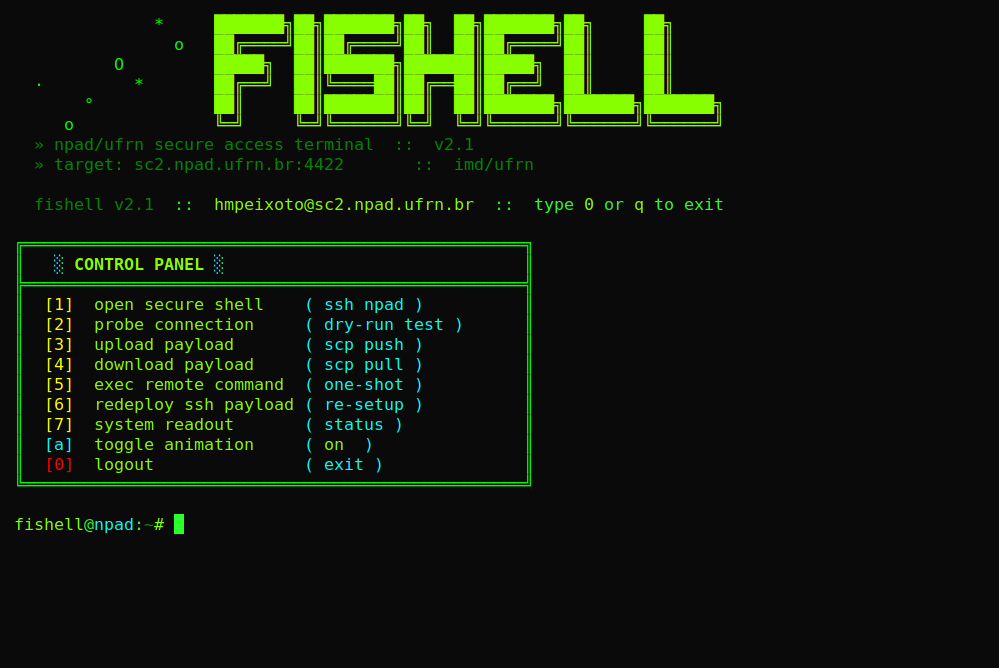
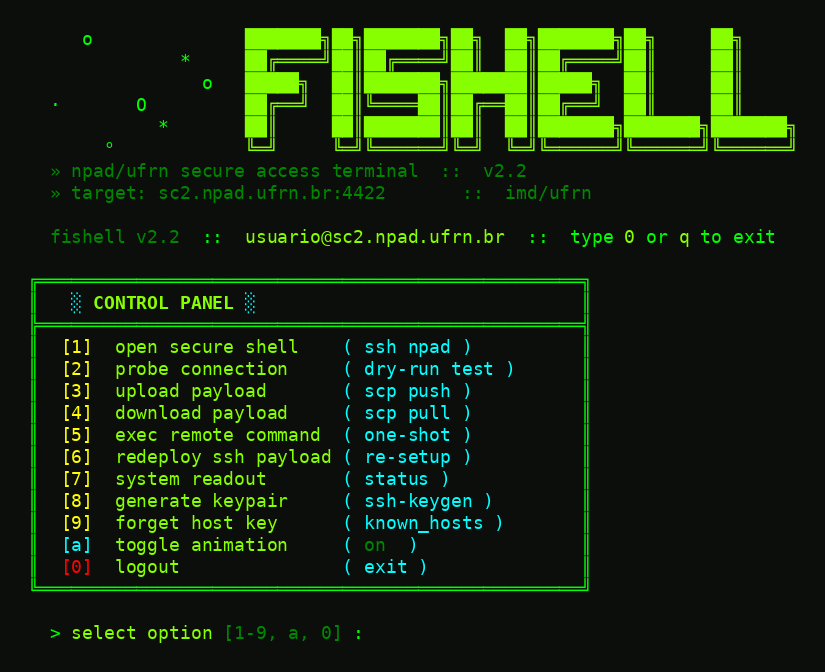
docs: README documenta o menu e o bloco do ssh/config + screenshot reproduzivel
O README nunca tinha documentado o painel interativo — a opcao [5] (exec
remoto) e o toggle [a] nao apareciam em lugar nenhum, ja que o `help` so
cobre a CLI.

Novo tambem:
- o bloco delimitado por "# -- fishell: begin/end --" que o setup escreve no
  ~/.ssh/config, e o fato de que rodar setup de novo reescreve em vez de
  duplicar.
- o caso em que ja existe um `Host npad` que nao foi criado pelo fishell: o
  script avisa e nao mexe, o que sem explicacao parece falha.
- secao de desenvolvimento com os checks locais e o que o CI roda.
- troubleshooting cobrindo `forget` e `keygen`.

tools/make-screenshot.py torna o print do README reproduzivel a partir da UI
real: roda o fishell numa copia temporaria do repo com NPAD_USER neutro,
captura o ANSI por um pty e desenha com Pillow. O usuario NPAD real nao pode
ir para um screenshot commitado em repo publico, e a altura de linha e' presa
a caixa do bloco cheio para as bordas do painel nao sairem com falhas.

diff --git a/tools/make-screenshot.py b/tools/make-screenshot.py
@@ -1,0 +1,132 @@
+#!/usr/bin/env python3
+"""Regenera o screenshot.png do README a partir da UI real do fishell.
+
+Roda o fishell.sh numa cópia temporária do repo (com um NPAD_USER neutro, pra
+não publicar o usuário real), captura a saída ANSI através de um pty e desenha
+o frame do painel com Pillow.
+
+    python3 tools/make-screenshot.py [-o screenshot.png]
+
+Requer: Pillow e DejaVu Sans Mono (fonts-dejavu-core).
+"""
+import argparse
+import os
+import re
+import shutil
+import subprocess
+import sys
+import tempfile
+
+from PIL import Image, ImageDraw, ImageFont
+
+REPO = os.path.dirname(os.path.dirname(os.path.abspath(__file__)))
+FONT_DIR = "/usr/share/fonts/truetype/dejavu"
+FONT_REG = f"{FONT_DIR}/DejaVuSansMono.ttf"
+FONT_BLD = f"{FONT_DIR}/DejaVuSansMono-Bold.ttf"
+
+SIZE, PAD = 18, 28
+FG, BG = (0, 255, 0), (11, 14, 11)
+CUBE = [0, 95, 135, 175, 215, 255]
+
+
+def xterm(n):
+    """RGB de uma cor xterm-256."""
+    if n < 16:
+        return (0, 0, 0)
+    if n < 232:
+        n -= 16
+        return (CUBE[n // 36], CUBE[(n % 36) // 6], CUBE[n % 6])
+    return (8 + (n - 232) * 10,) * 3
+
+
+def capture():
+    """Roda o fishell numa cópia descartável e devolve a saída ANSI crua."""
+    with tempfile.TemporaryDirectory() as tmp:
+        work = os.path.join(tmp, "fishell")
+        shutil.copytree(REPO, work, ignore=shutil.ignore_patterns(".git", ".ssh"))
+        cfg = os.path.join(work, "config.sh")
+        with open(os.path.join(work, "config.sh.example"), encoding="utf-8") as f:
+            conf = f.read().replace('NPAD_USER="seu_usuario_aqui"', 'NPAD_USER="usuario"')
+        with open(cfg, "w", encoding="utf-8") as f:
+            f.write(conf)
+        # script(1) dá um pty ao filho — sem isso o fishell desliga as cores.
+        # FISHELL_NOANIM=1 é obrigatório: com animação o menu nunca vê o EOF.
+        out = subprocess.run(
+            ["script", "-qec", "FISHELL_NOANIM=1 ./fishell.sh", "/dev/null"],
+            cwd=work, stdin=subprocess.DEVNULL, stdout=subprocess.PIPE,
+            stderr=subprocess.STDOUT, timeout=60,
+        ).stdout.decode("utf-8", "replace")
+    # O painel ainda mostra "off" porque a captura desligou a animação; o que o
+    # usuário vê num run normal é "on".
+    return out.replace("off\x1b[0m", "on \x1b[0m")
+
+
+def parse(raw):
+    """Extrai o frame do menu e devolve linhas de runs (cor, negrito, texto)."""
+    frames = re.split(r"\x1b\[H\x1b\[2J\x1b\[3J", raw)
+    # 'CONTROL PANEL' só existe no frame do menu ('╔' também está na arte do logo).
+    frame = next((f for f in reversed(frames) if "CONTROL PANEL" in f), None)
+    if frame is None:
+        sys.exit("painel não encontrado na captura — o fishell chegou a rodar?")
+
+    tok = re.compile(r"\x1b\[([0-9;]*)m")
+    lines, color, bold = [], FG, False
+    for raw_line in frame.replace("\r", "").split("\n"):
+        pos, cur = 0, []
+        for m in tok.finditer(raw_line):
+            if m.start() > pos:
+                cur.append((color, bold, raw_line[pos:m.start()]))
+            codes = [c for c in (m.group(1) or "0").split(";") if c]
+            i = 0
+            while i < len(codes):
+                c = int(codes[i])
+                if c == 0:
+                    color, bold = FG, False
+                elif c == 1:
+                    bold = True
+                elif c == 38 and codes[i + 1:i + 2] == ["5"]:
+                    color = xterm(int(codes[i + 2]))
+                    i += 2
+                i += 1
+            pos = m.end()
+        if pos < len(raw_line):
+            cur.append((color, bold, raw_line[pos:]))
+        lines.append(cur)
+
+    text = lambda ln: "".join(t for _, _, t in ln)
+    while lines and not text(lines[0]).strip():
+        lines.pop(0)
+    while lines and not text(lines[-1]).strip():
+        lines.pop()
+    return lines
+
+
+def render(lines, out):
+    for path in (FONT_REG, FONT_BLD):
+        if not os.path.exists(path):
+            sys.exit(f"fonte ausente: {path} (apt install fonts-dejavu-core)")
+    reg = ImageFont.truetype(FONT_REG, SIZE)
+    bld = ImageFont.truetype(FONT_BLD, SIZE)
+    # A altura da linha tem que ser exatamente a caixa do bloco cheio, senão as
+    # bordas ║ do painel saem com falhas entre uma linha e outra.
+    top, bottom = reg.getbbox("█")[1], reg.getbbox("█")[3]
+    cw, lh = reg.getlength("M"), bottom - top
+
+    cols = max(len("".join(t for _, _, t in ln)) for ln in lines)
+    img = Image.new("RGB", (int(PAD * 2 + cols * cw), int(PAD * 2 + len(lines) * lh)), BG)
+    draw = ImageDraw.Draw(img)
+    for row, ln in enumerate(lines):
+        x, y = PAD, PAD + row * lh - top
+        for color, is_bold, text in ln:
+            draw.text((x, y), text, font=(bld if is_bold else reg), fill=color)
+            x += len(text) * cw
+    img.save(out)
+    print(f"{out}: {img.width}x{img.height} px, {len(lines)} linhas, {cols} colunas")
+
+
+if __name__ == "__main__":
+    ap = argparse.ArgumentParser(description=__doc__,
+                                 formatter_class=argparse.RawDescriptionHelpFormatter)
+    ap.add_argument("-o", "--out", default=os.path.join(REPO, "screenshot.png"))
+    args = ap.parse_args()
+    render(parse(capture()), args.out)

diff --git a/README.md b/README.md
@@ -1,7 +1,9 @@
 # fishell
 
 Terminal SSH para acesso rápido ao **NPAD/UFRN** (supercomputador do IMD).
-Configura chaves, registra alias `npad` e abre um painel interativo.
+Copia as chaves, registra o alias `npad` e abre um painel interativo.
+
+[![ci](https://github.com/heltonmaia/fishell/actions/workflows/ci.yml/badge.svg)](https://github.com/heltonmaia/fishell/actions/workflows/ci.yml)
 
 - **Linux / macOS / WSL / Google Colab** → `fishell.sh` (Bash)
 - **Windows (PowerShell / cmd)** → `fishell.ps1` + `fishell.cmd` (launcher)
@@ -19,6 +21,7 @@ cd fishell
 # 1. Chaves SSH do NPAD vão em ./.ssh/
 mkdir -p .ssh
 cp ~/.ssh/id_rsa ~/.ssh/id_rsa.pub .ssh/
+#    (sem chave ainda? ./fishell.sh keygen gera o par pra você)
 
 # 2. Configure seu usuário NPAD
 cp config.sh.example config.sh
@@ -28,16 +31,16 @@ sed -i 's/seu_usuario_aqui/SEU_USER_NPAD/' config.sh
 ./fishell.sh
 ```
 
-Na primeira execução, o script detecta que o SSH não está configurado,
-faz o *setup* automaticamente e abre o painel.
+Na primeira execução, o script detecta que o SSH não está configurado, faz o
+*setup* automaticamente e abre o painel.
 
 ---
 
 ## Instalação (Windows)
 
-Requisitos: Windows 10+ com **OpenSSH Client** ativo (já vem por padrão;
-se não: `Settings → Apps → Optional features → OpenSSH Client`) e
-**Windows Terminal** recomendado para cores/animação.
+Requisitos: Windows 10+ com **OpenSSH Client** ativo (já vem por padrão; se
+não: `Settings → Apps → Optional features → OpenSSH Client`) e **Windows
+Terminal** recomendado para cores/animação.
 
 ```powershell
 git clone https://github.com/heltonmaia/fishell.git
@@ -56,26 +59,50 @@ notepad config.ps1   # edite $NPAD_USER
 .\fishell.cmd
 ```
 
-Pode também chamar com subcomando: `fishell.cmd setup | login | test |
-upload | download | status | help`.
+Também aceita subcomando: `fishell.cmd setup | login | test | upload |
+download | run | keygen | forget | status | help`.
+
+---
+
+## Painel interativo
+
+Rodar sem argumento abre o painel. Cada tecla é uma ação (não precisa dar
+ENTER):
+
+| tecla | ação |
+| ----- | ---------------------------------------------------------- |
+| `1`   | abre o shell no NPAD (equivale a `ssh npad`)                |
+| `2`   | testa a conexão — handshake de 10 s, sem abrir shell        |
+| `3`   | upload via `scp` (pergunta caminho local e remoto)          |
+| `4`   | download via `scp`                                          |
+| `5`   | executa **um comando** no NPAD e mostra a saída             |
+| `6`   | refaz o setup do SSH (recopia chaves, reescreve o alias)    |
+| `7`   | mostra a configuração atual (usuário, host, porta, chaves)  |
+| `8`   | gera um par de chaves novo no diretório de chaves           |
+| `9`   | esquece a host key do NPAD (`ssh-keygen -R`)                |
+| `a`   | liga/desliga a animação do banner                           |
+| `0` ou `q` | sai                                                    |
 
 ---
 
 ## Comandos
 
 ```bash
-./fishell.sh              # painel interativo
-./fishell.sh setup        # (re)configura o SSH
-./fishell.sh login        # conecta (= ssh npad)
-./fishell.sh test         # testa conexão
-./fishell.sh upload       # scp push (interativo)
-./fishell.sh download     # scp pull (interativo)
-./fishell.sh status       # mostra configuração
-./fishell.sh help         # ajuda
+./fishell.sh                    # painel interativo
+./fishell.sh setup              # (re)configura o SSH
+./fishell.sh login              # conecta (= ssh npad)
+./fishell.sh test               # testa conexão
+./fishell.sh upload             # scp push (interativo)
+./fishell.sh download           # scp pull (interativo)
+./fishell.sh run "nvidia-smi"   # roda um comando no NPAD e imprime a saída
+./fishell.sh keygen             # gera um par de chaves novo
+./fishell.sh forget             # remove a host key do NPAD do known_hosts
+./fishell.sh status             # mostra configuração
+./fishell.sh help               # ajuda (funciona sem config.sh)
 ```
 
-Depois do `setup`, o alias fica em `~/.ssh/config` e você pode usar SSH
-direto de qualquer shell:
+Depois do `setup`, o alias fica no `~/.ssh/config` e você pode usar SSH direto
+de qualquer shell:
 
 ```bash
 ssh npad
@@ -89,6 +116,35 @@ Variáveis de ambiente:
 | ------------------ | ---------------------------------------- |
 | `FISHELL_NOANIM=1` | desativa typewriter/boot animation       |
 | `NO_COLOR=1`       | desativa cores ANSI                      |
+
+---
+
+## O que o `setup` faz no seu `~/.ssh`
+
+1. Copia `id_rsa` (e `id_rsa.pub` / `known_hosts`, se existirem) do diretório
+   de chaves para `~/.ssh/`, com permissão `600`.
+2. Acrescenta ao `~/.ssh/config` um bloco delimitado por sentinelas:
+
+```
+# ── fishell: begin ──
+Host npad
+    HostName sc2.npad.ufrn.br
+    Port 4422
+    User SEU_USER
+    IdentityFile ~/.ssh/id_rsa
+    ServerAliveInterval 60
+    ServerAliveCountMax 3
+# ── fishell: end ──
+```
+
+Rodar `setup` de novo **reescreve** esse bloco em vez de duplicá-lo — então
+mudar `NPAD_USER` ou `NPAD_PORT` no config e rodar `./fishell.sh setup` já
+basta.
+
+Se você **já tinha** um `Host npad` no `~/.ssh/config` que não foi criado pelo
+fishell, o script **não mexe nele** e avisa (`alias 'npad' exists ... kept as
+is`). Nesse caso, ou remova/renomeie o seu bloco à mão, ou escolha outro
+`SSH_ALIAS` no `config.sh`.
 
 ---
 
@@ -119,16 +175,22 @@ drive.mount('/content/drive')
 ```
 
 O script detecta `/content/drive/MyDrive/visaocomputacional/.ssh`
-automaticamente. Rode `bash fishell.sh setup` sempre que a VM do Colab
-reiniciar.
+automaticamente quando `SSH_KEYS_DIR` está vazio. Rode `bash fishell.sh setup`
+sempre que a VM do Colab reiniciar.
+
+Para rodar algo no NPAD direto de uma célula, sem painel:
+
+```python
+!bash fishell.sh run "sinfo -s"
+```
 
 ---
 
 ## Migrando para outra máquina (Linux / macOS / WSL)
 
-Após `git clone`, copie os arquivos locais (bloqueados pelo `.gitignore`)
-da máquina de origem: `config.sh` e a pasta `.ssh/` inteira
-(`id_rsa`, `id_rsa.pub`, `known_hosts`).
+Após `git clone`, copie os arquivos locais (bloqueados pelo `.gitignore`) da
+máquina de origem: `config.sh` e a pasta `.ssh/` inteira (`id_rsa`,
+`id_rsa.pub`, `known_hosts`).
 
 Exemplo com `scp`:
 
@@ -137,8 +199,8 @@ scp config.sh  usuario@nova-maquina:~/fishell/
 scp -r .ssh    usuario@nova-maquina:~/fishell/
 ```
 
-Na máquina nova, ajuste as permissões — o SSH recusa a chave se `.ssh/`
-ou `id_rsa` estiverem com permissão frouxa:
+Na máquina nova, ajuste as permissões — o SSH recusa a chave se `.ssh/` ou
+`id_rsa` estiverem com permissão frouxa:
 
 ```bash
 cd ~/fishell
@@ -153,20 +215,55 @@ chmod +x fishell.sh
 
 ## Troubleshooting
 
-| Problema                          | Solução                                                            |
-| --------------------------------- | ------------------------------------------------------------------ |
-| `Permission denied (publickey)`   | Confirme `NPAD_USER` no `config.sh` e se a pub foi enviada ao NPAD |
-| `chave privada não encontrada`    | `.ssh/id_rsa` deve existir, ou defina `SSH_KEYS_DIR` no config     |
-| `Host key verification failed`    | `ssh-keygen -R '[sc2.npad.ufrn.br]:4422'` e rode `setup` de novo   |
-| Timeout / conexão trava           | `./fishell.sh test` — se falhar, verifique firewall e porta 4422   |
+| Problema                          | Solução                                                             |
+| --------------------------------- | ------------------------------------------------------------------- |
+| `Permission denied (publickey)`   | Confirme `NPAD_USER` no `config.sh` e se a pub foi enviada ao NPAD  |
+| `chave privada não encontrada`    | `./fishell.sh keygen`, ou aponte `SSH_KEYS_DIR` para a pasta certa  |
+| `Host key verification failed`    | `./fishell.sh forget` e conecte de novo                             |
+| Timeout / conexão trava           | `./fishell.sh test` — se falhar, verifique firewall e porta 4422    |
+| Alias `npad` não foi registrado   | Já existia um `Host npad` seu no `~/.ssh/config` — veja a seção acima |
+| Banner/painel com lixo no Windows | `fishell.ps1` foi salvo sem BOM UTF-8, ou o terminal não é o Windows Terminal |
+
+---
+
+## Desenvolvimento
+
+Não há build nem dependências. Os dois ports (`fishell.sh` e `fishell.ps1`)
+são escritos à mão em paralelo: **toda mudança de comportamento, texto de UI ou
+subcomando precisa entrar nos dois**, incluindo o número de versão.
+
+Antes de commitar:
+
+```bash
+bash -n fishell.sh          # sintaxe
+shellcheck fishell.sh       # se disponível
+
+FISHELL_NOANIM=1 NO_COLOR=1 ./fishell.sh </dev/null \
+  | python3 .github/scripts/check_panel.py    # a caixa do painel tem 50 colunas
+```
+
+O CI (GitHub Actions) roda isso mais o parser do PowerShell, o PSScriptAnalyzer
+e dois checks de paridade entre os ports (mesma versão, mesmos subcomandos).
+
+Mudou a UI (banner, menu, prompt)? Regenere o print do README — ele é gerado da
+UI real, não tirado à mão:
+
+```bash
+python3 tools/make-screenshot.py     # precisa de Pillow + fonts-dejavu-core
+```
+
+**`fishell.ps1` precisa continuar salvo em UTF-8 com BOM.** O Windows
+PowerShell 5.1 lê `.ps1` sem BOM como ANSI/Windows-1252, o que destrói o banner,
+as bordas do painel e as sentinelas do bloco no `~/.ssh/config` — fazendo cada
+`setup` duplicar o bloco. O CI bloqueia se o BOM sumir.
 
 ---
 
 ## Segurança
 
-`.ssh/`, `config.sh`, `*.zip`, `*.pem`, `*.key` estão no `.gitignore` —
-**nunca** serão commitados. Se suspeitar de vazamento, gere um novo par
-com `ssh-keygen` e atualize a pub no NPAD.
+`.ssh/`, `config.sh`, `config.ps1`, `*.zip`, `*.pem`, `*.key` estão no
+`.gitignore` — **nunca** serão commitados. Se suspeitar de vazamento, gere um
+novo par com `./fishell.sh keygen` e atualize a pub no NPAD.
 
 ---
 
